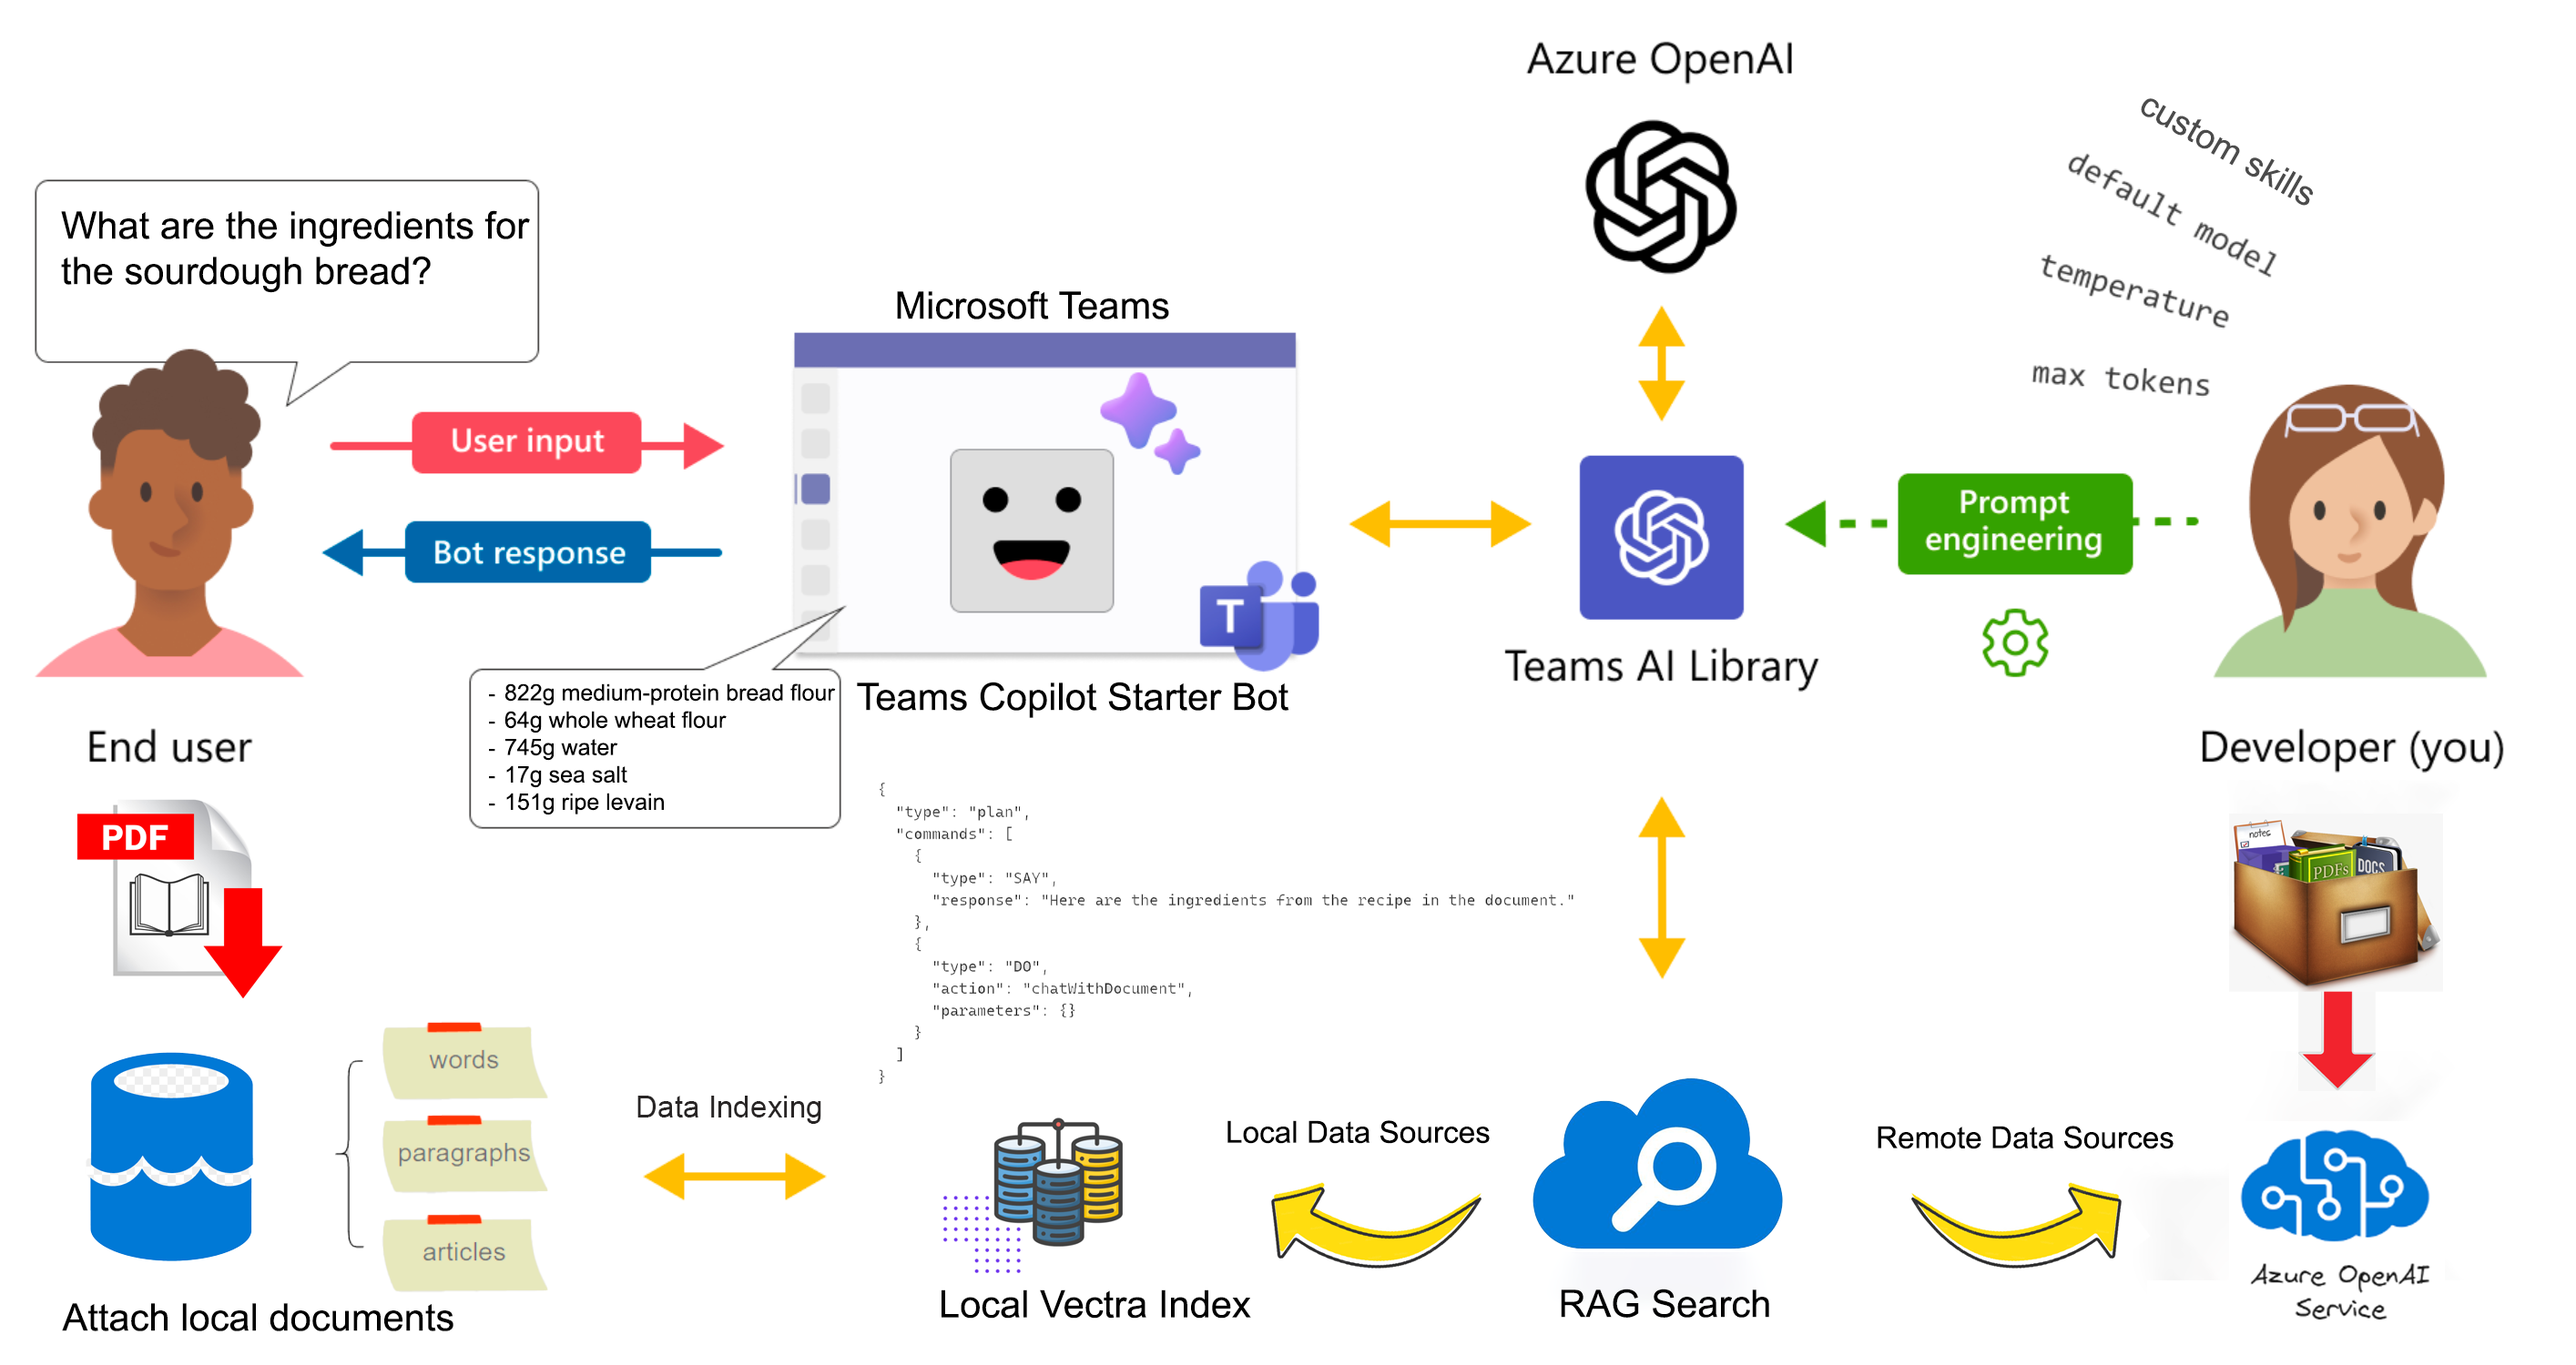
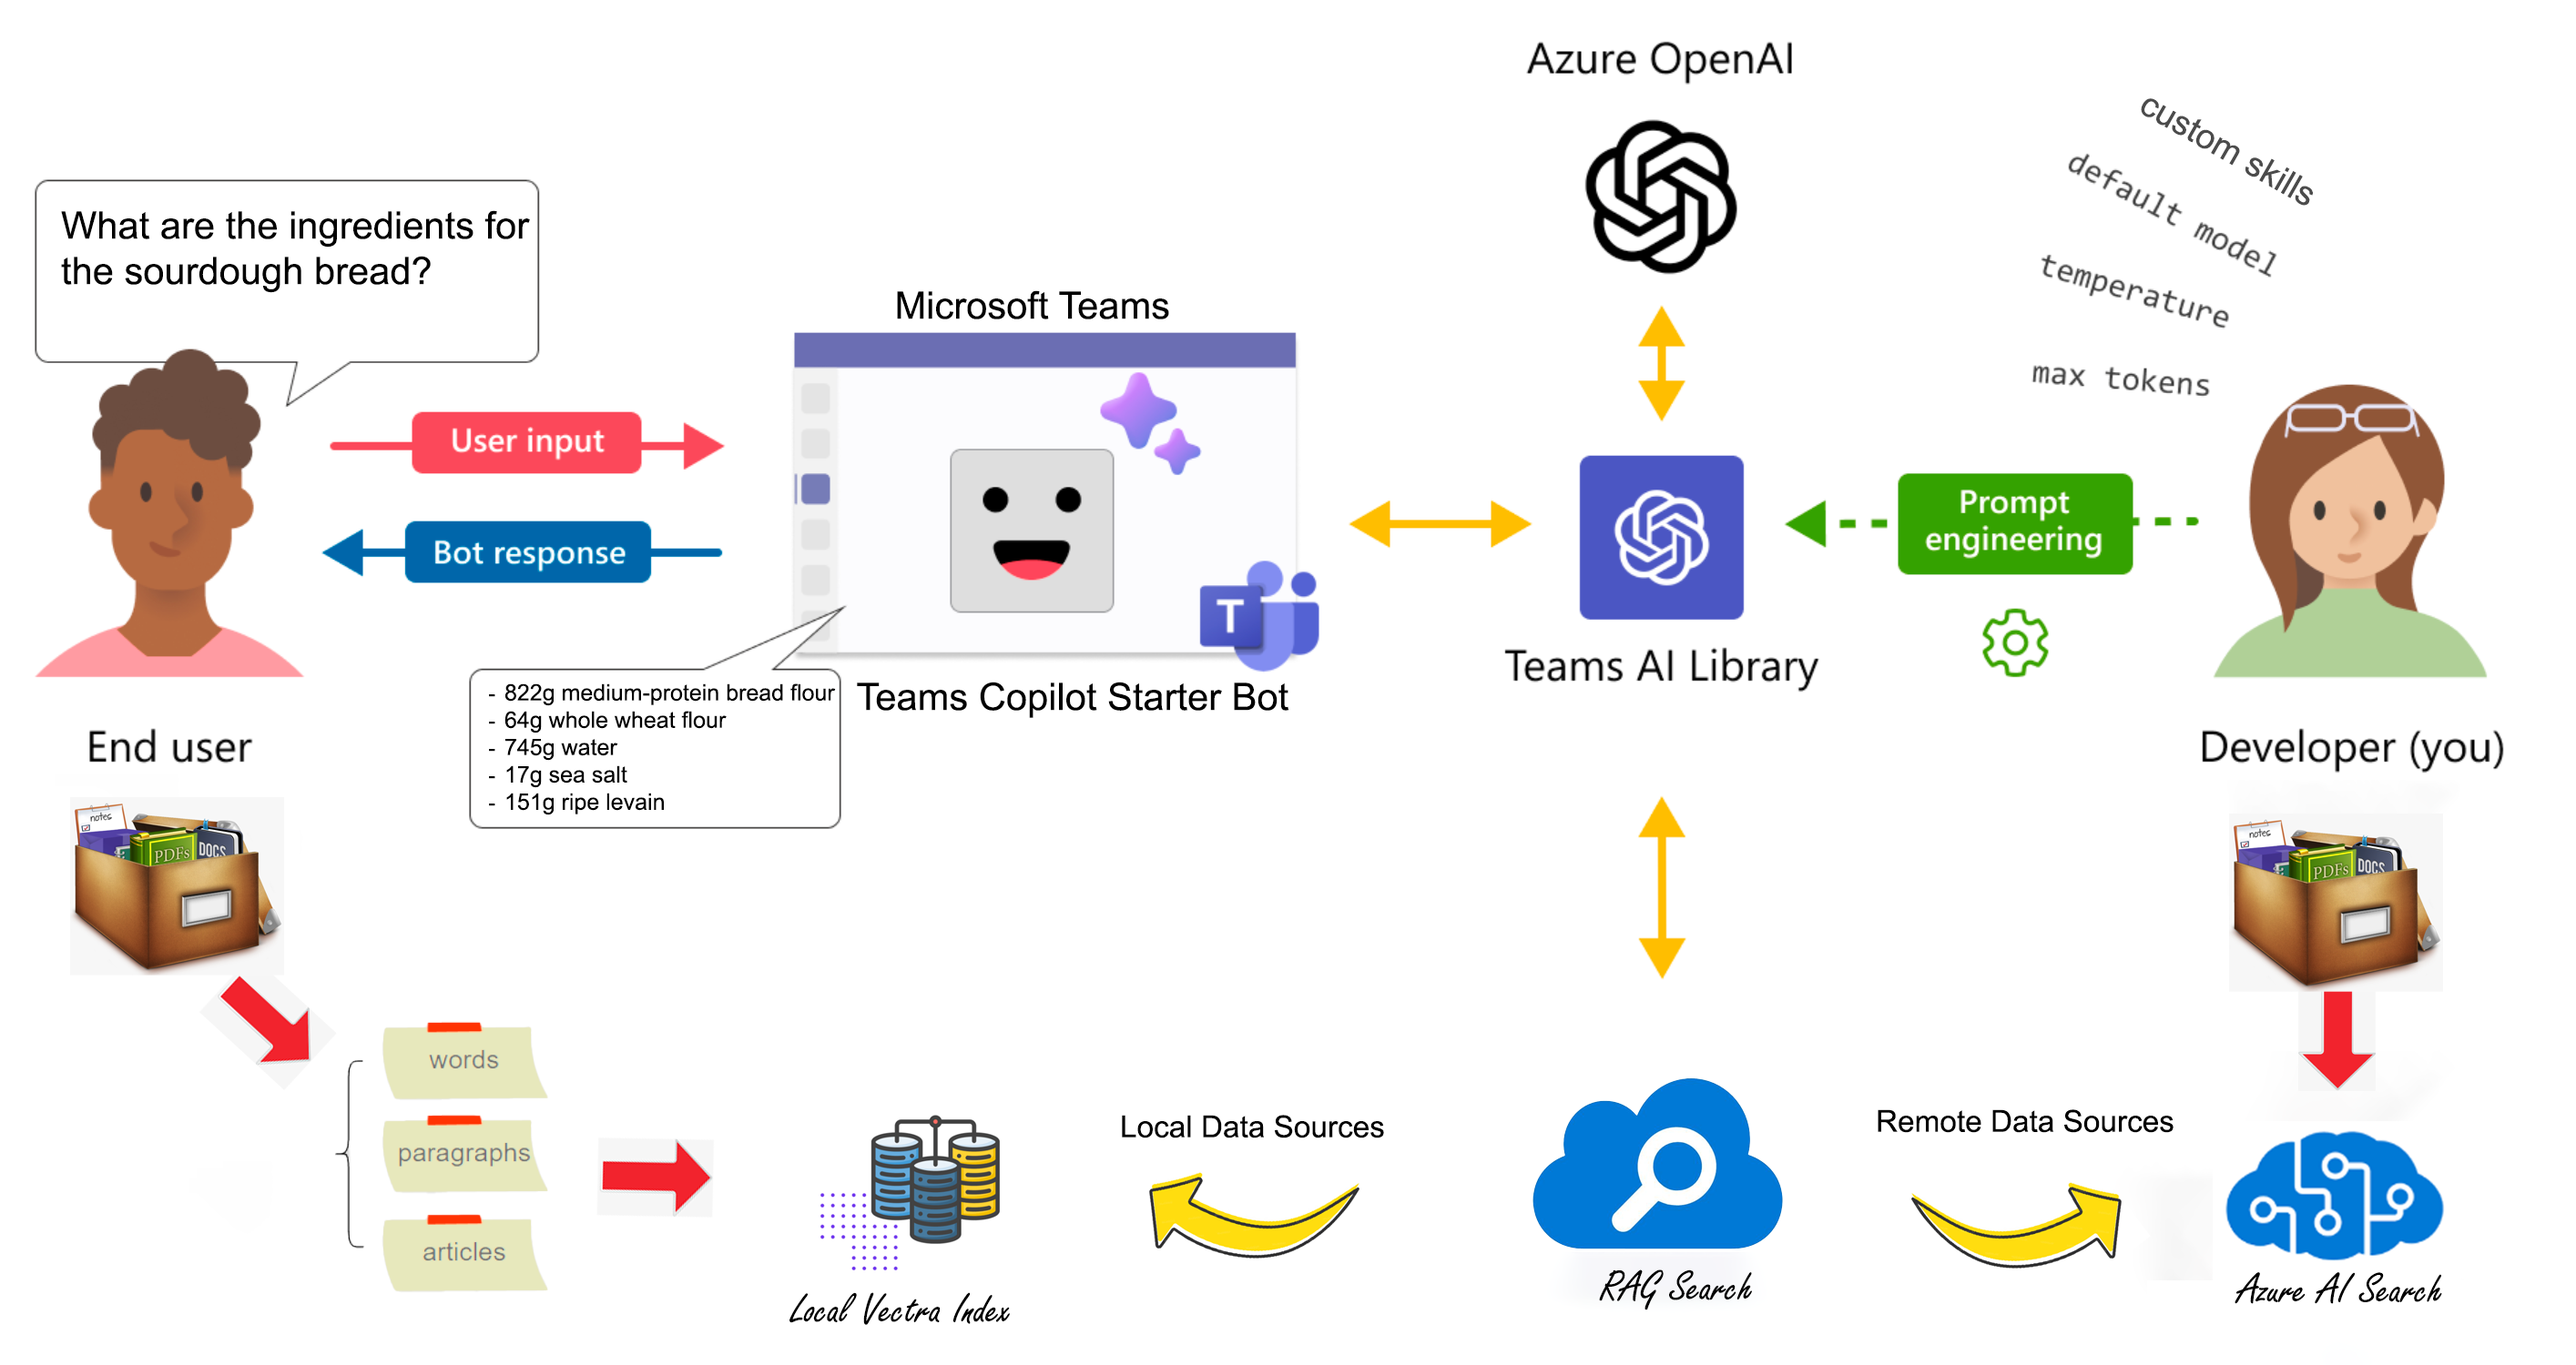
updated README and arch diagram

diff --git a/README.md b/README.md
@@ -68,7 +68,10 @@ The Teams Copilot Starter is made to support various AI systems for moderating i
 
 ### External Data Sources
 
-External data sources allow the injection of relevant information from external sources into prompts, such as vector databases or cognitive search. A vector data source makes it easy to add [RAG](https://en.wikipedia.org/wiki/Prompt_engineering#Retrieval-augmented_generation) to any prompt, allowing for better and more accurate replies from the bot. Teams Copilot Starter comes with a built-in local vector database for Node.js, called Vectra. Using Vectra you can chat with either a website content (must be publicly accessible) or locally uploaded documents in either text (TXT) or PDF format. For each data source, a max number of tokens to use can be specified via `maxTokens` variable. For more information see [Vectra](./docs/concepts/vectra.md) guide.
+External data sources allow the injection of relevant information from external sources into prompts, such as vector databases or cognitive search. A vector data source makes it easy to add [RAG](https://en.wikipedia.org/wiki/Prompt_engineering#Retrieval-augmented_generation) to any prompt, allowing for better and more accurate replies from the bot. Teams Copilot Starter comes with two RAG options:
+
+1. A built-in local vector database for Node.js, called Vectra. Using Vectra you can chat with either a website content (must be publicly accessible) or locally uploaded documents in either text (TXT) or PDF format. For each data source, a max number of tokens to use can be specified via `maxTokens` variable. For more information see [Vectra](./docs/concepts/vectra.md) guide.
+2. Azure AI Search, that provides secure information retrieval at scale over user-owned content in traditional and generative AI search applications. For more information, see [What's Azure AI Search?](https://learn.microsoft.com/en-us/azure/search/search-what-is-azure-search). Across the Azure platform, Azure AI Search can integrate with other Azure services in the form of indexers that automate data ingestion/retrieval from Azure data sources, and skillsets that incorporate consumable AI from Azure AI services, such as image and natural language processing, or custom AI that you create in Azure Machine Learning or wrap inside Azure Functions. To build your own Azure AI Search Indexer, follow the steps described in this article: [Create an index in Azure AI Search](https://learn.microsoft.com/en-us/azure/search/search-how-to-create-search-index?tabs=portal).
 
 ### Enable Single Sign-on with authorized access to a secured API
 
